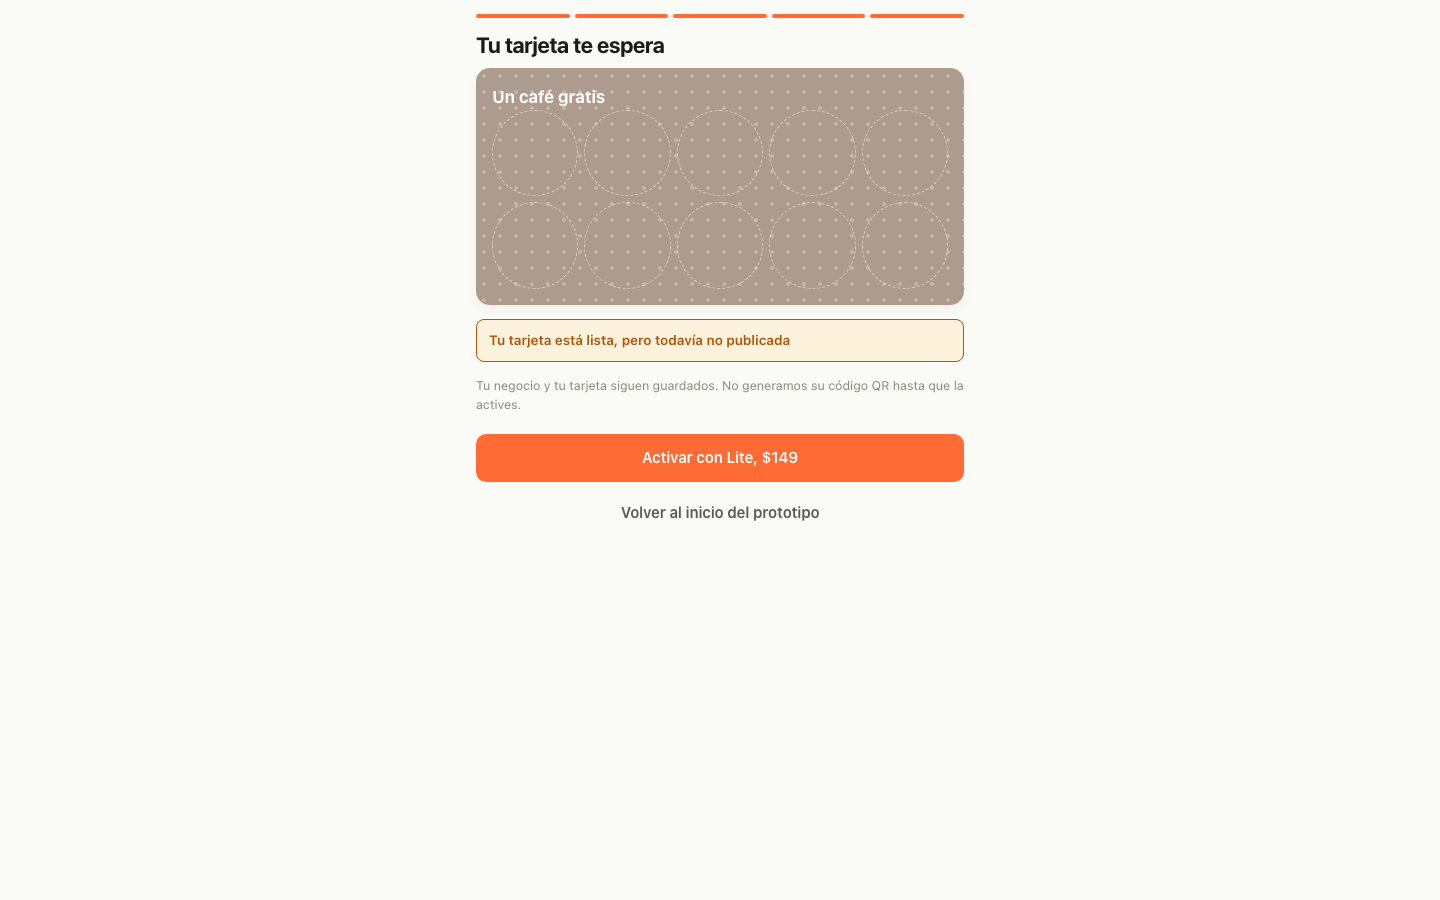
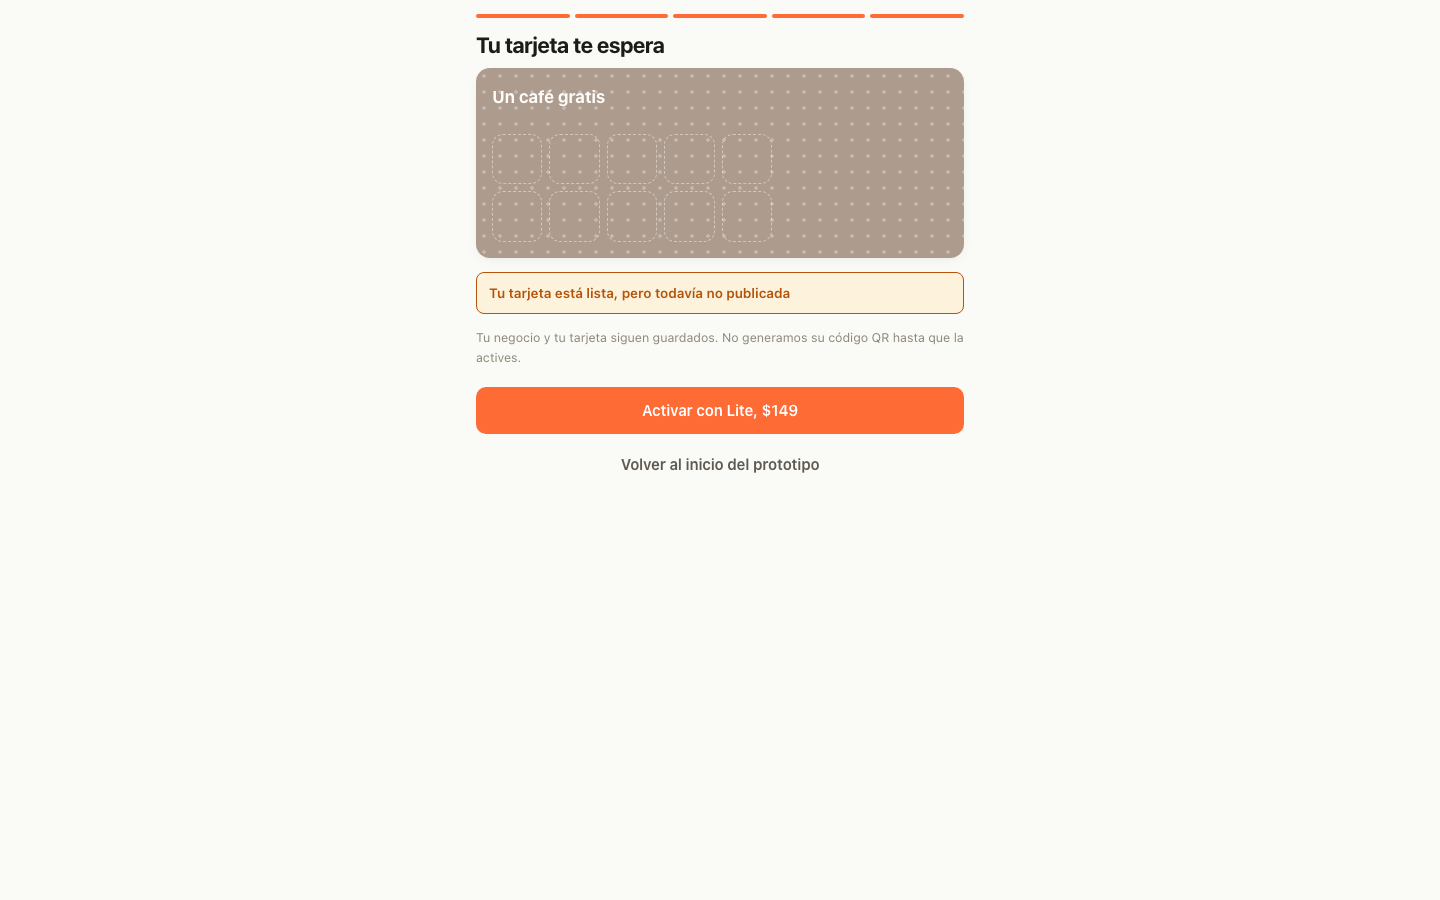
docs: match stamp proportions to the theme reference

Changed region(s): [[0.3125, 0.28, 0.6875, 0.5911]]

diff --git a/docs/design/prototipo-alta.html b/docs/design/prototipo-alta.html
@@ -72,9 +72,19 @@
     background-size:16px 16px;
   }
   .tarjeta > * { position:relative; }
-  .sellos { display:grid; grid-template-columns:repeat(5,1fr); gap:6px; }
-  .sello { aspect-ratio:1; border-radius:50%; border:1.5px dashed rgba(255,255,255,.55); }
+  /* Rejilla de cinco por dos, con la proporción de la referencia de temas:
+     cuadrados redondeados, no discos, y el sello lleno marca su centro. */
+  .sellos { display:grid; grid-template-columns:repeat(5,1fr); gap:7px; max-width:280px; }
+  .sello {
+    aspect-ratio:1; border-radius:11px; border:1.5px dashed rgba(255,255,255,.45);
+    display:flex; align-items:center; justify-content:center;
+  }
   .sello.on { background:#fff; border-style:solid; border-color:#fff; }
+  .sello.on::after {
+    content:""; width:38%; height:38%; border-radius:3px;
+    background:currentColor; opacity:.85;
+  }
+  .tarjeta .sello.on { color:#6f4e37; }
   .planes { display:flex; flex-direction:column; gap:10px; }
   .plan { border:1px solid var(--border-strong); border-radius:var(--r-xl); padding:14px; background:var(--surface); }
   .plan.destacado { border-color:var(--brand); }
